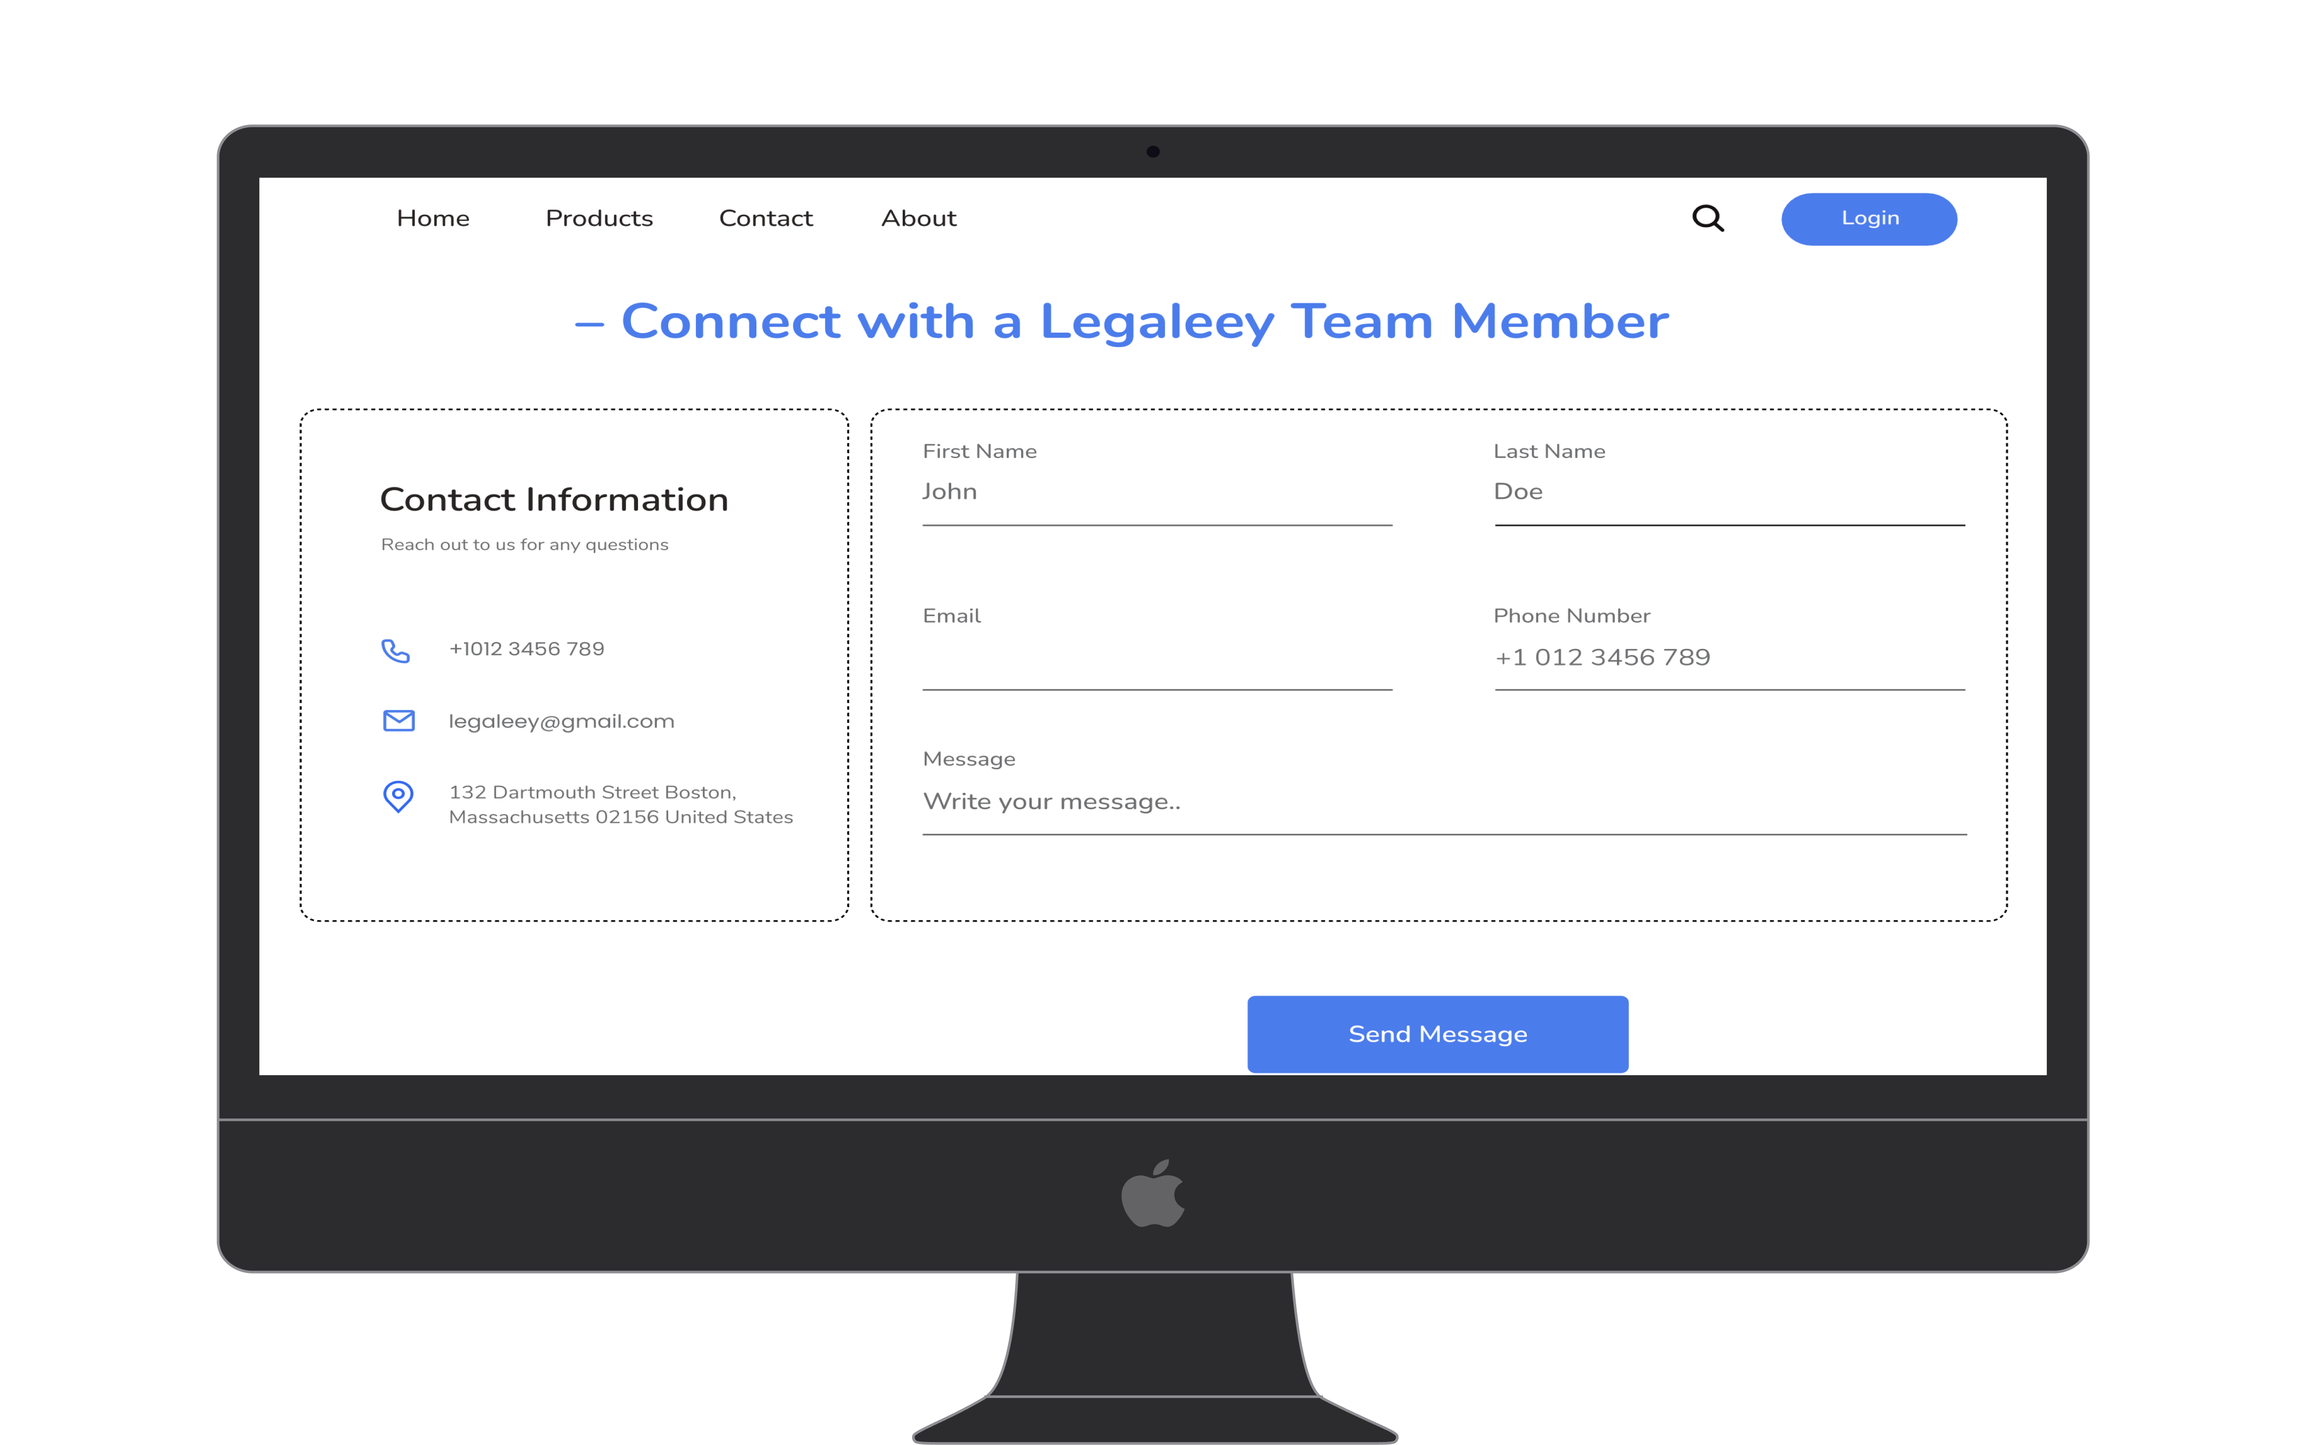
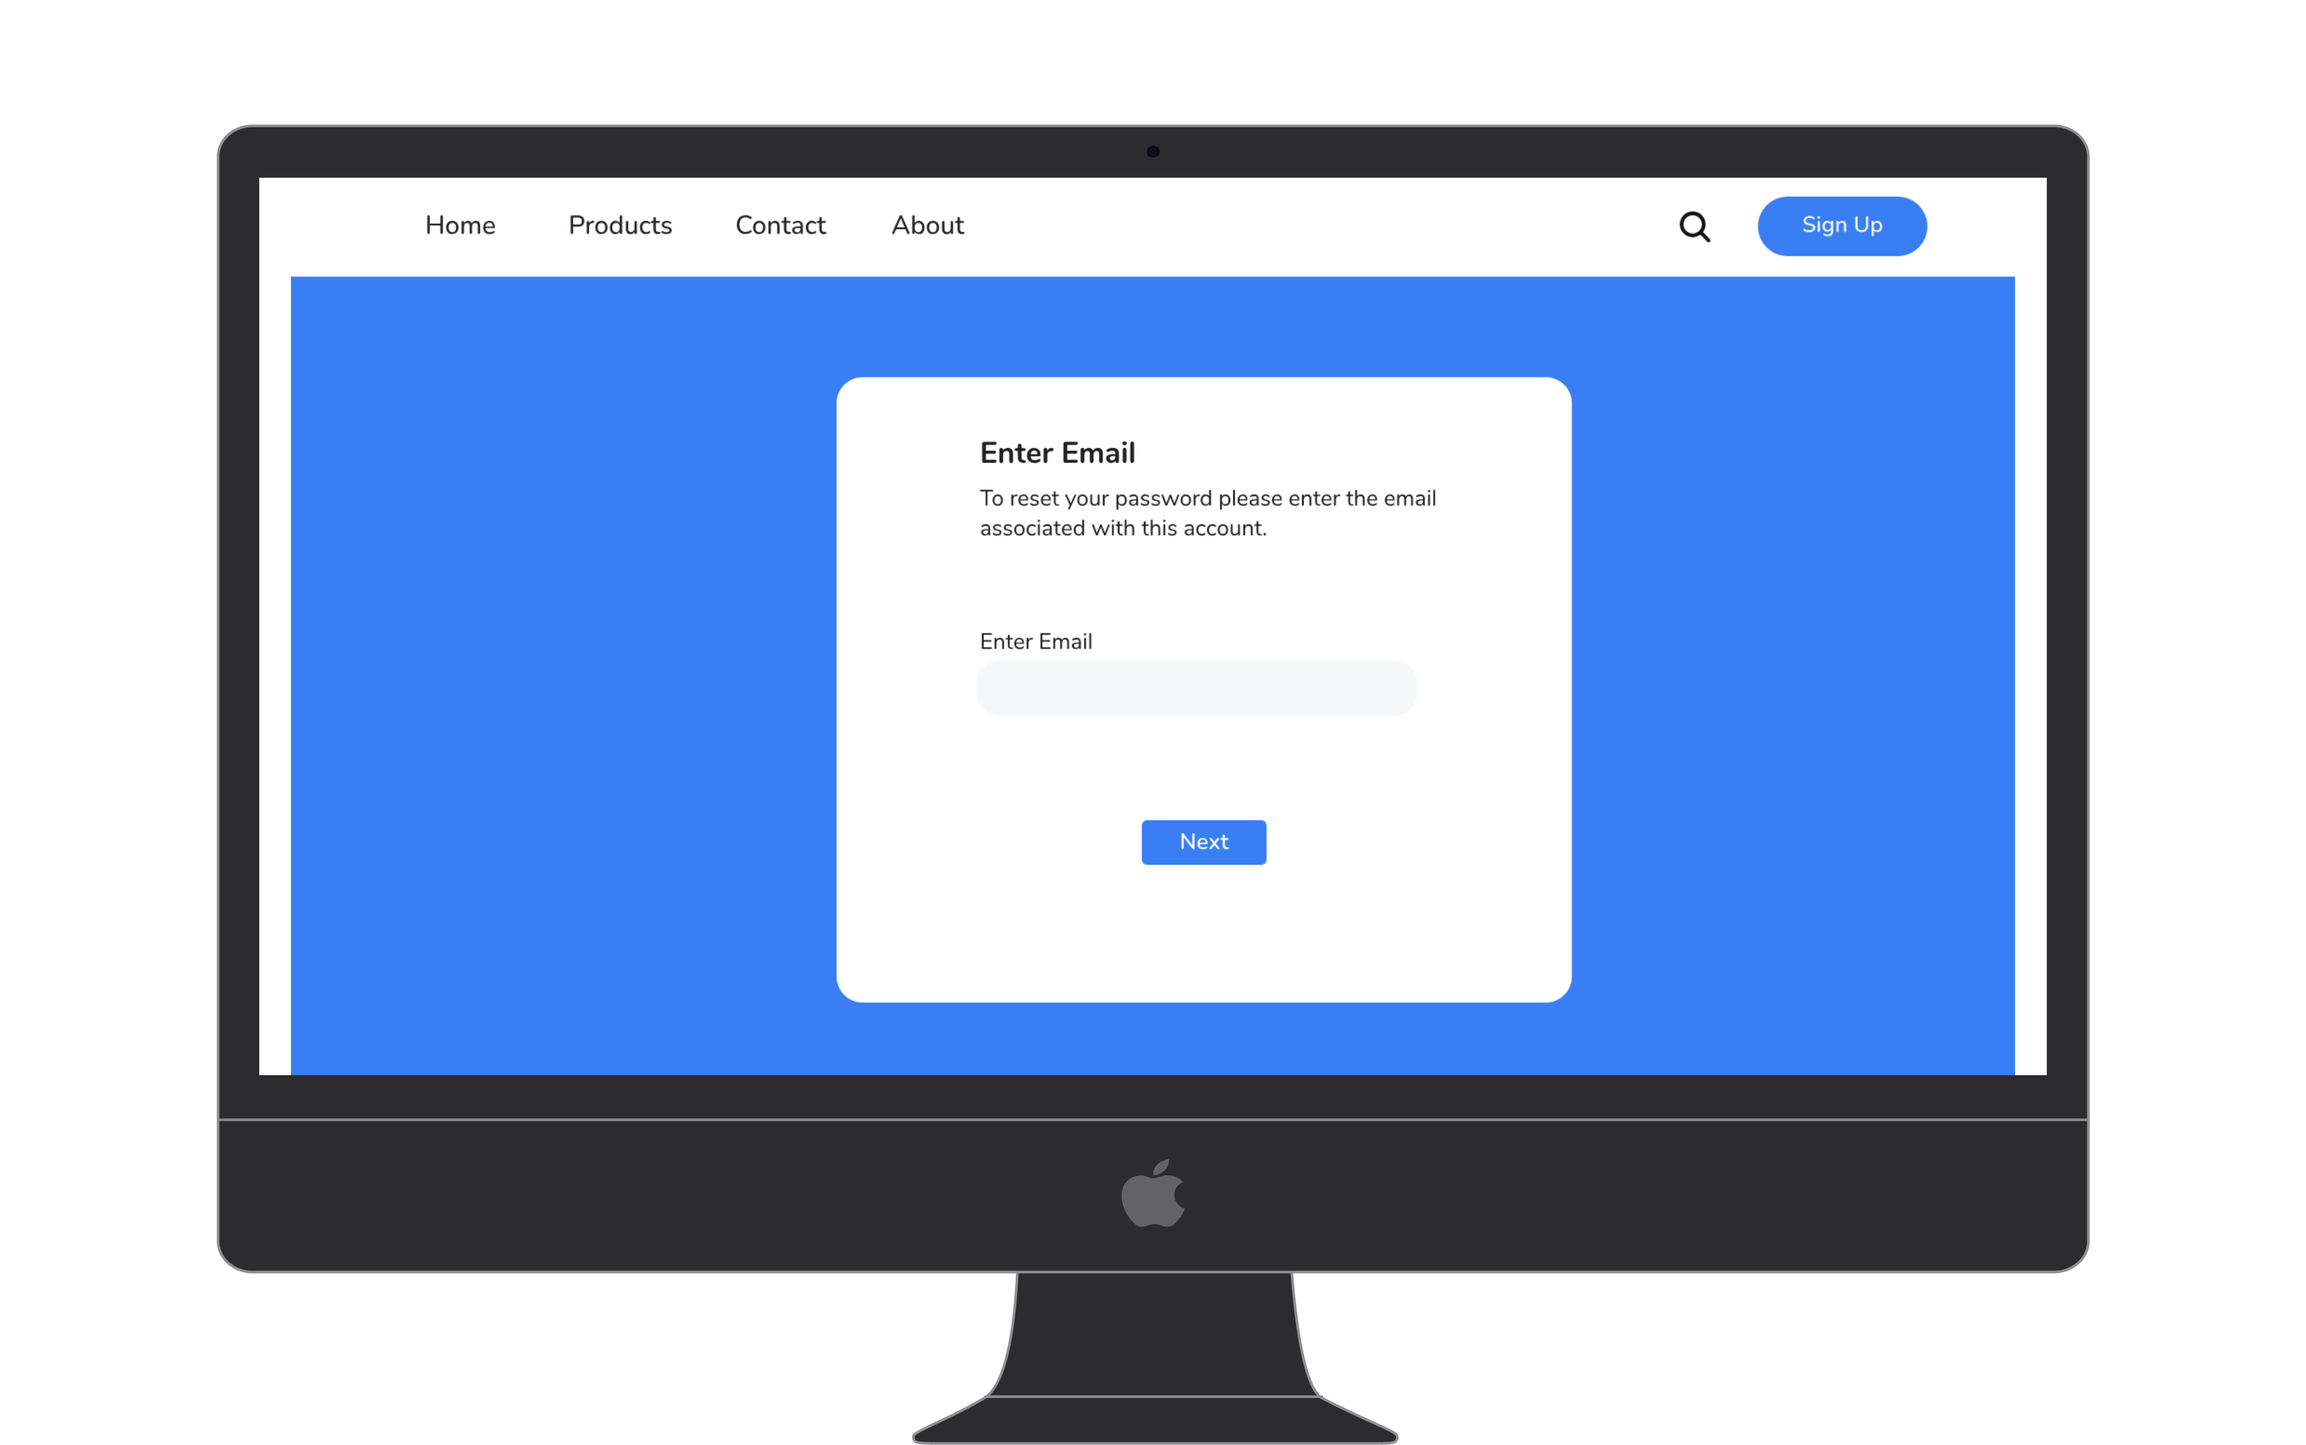
fix: Legaleey captions and alt text matched to images

diff --git a/projects/legaleey/index.html b/projects/legaleey/index.html
@@ -214,7 +214,7 @@
       <p class="hero-sub">An AI powered document search platform that reduces the hours lawyers spend finding and locating items within contracts.</p>
     </div>
 
-    <img src="/projects/legaleey/legaleey-photos/Frame%201.png" alt="Legaleey platform overview screen" style="width:100%; height:auto; display:block; border-radius:12px; margin-bottom:56px;">
+    <img src="/projects/legaleey/legaleey-photos/Frame%201.png" alt="Legaleey marketing homepage with sign up form and demo call to action" style="width:100%; height:auto; display:block; border-radius:12px; margin-bottom:56px;">
 
     <div class="ed-meta-pills">
       <span class="ed-pill">
@@ -353,11 +353,11 @@
           <p>Lawyers do not want a smarter Ctrl+F. They want a tool that understands the <strong>structure of a contract</strong> well enough to answer questions like: who are the parties, what are the termination conditions, and are there any governing law clauses that deviate from the norm?</p>
         </div>
 
-        <img src="/projects/legaleey/legaleey-photos/Frame%202.png" alt="Sign up and account creation flow" style="width:100%; height:auto; display:block; border-radius:12px; margin-bottom:56px;">
+        <img src="/projects/legaleey/legaleey-photos/Frame%202.png" alt="Who We Are section of the marketing site explaining the AI value proposition" style="width:100%; height:auto; display:block; border-radius:12px; margin-bottom:56px;">
         <p class="img-caption">The marketing site was designed to establish the AI value proposition before any account commitment was required. Lawyers evaluating new tools need to understand the core benefit before engaging with a sign up flow.</p>
-        <img src="/projects/legaleey/legaleey-photos/Frame%203.png" alt="Email verification and onboarding step" style="width:100%; height:auto; display:block; border-radius:12px; margin-bottom:56px;">
+        <img src="/projects/legaleey/legaleey-photos/Frame%203.png" alt="Contact page for connecting with a Legaleey team member" style="width:100%; height:auto; display:block; border-radius:12px; margin-bottom:56px;">
         <p class="img-caption">Direct firm outreach was prioritized because legal procurement decisions require a human touchpoint before account creation. The contact page was built into the product rather than linked externally to keep evaluation friction low.</p>
-        <img src="/projects/legaleey/legaleey-photos/Frame%204.png" alt="First time dashboard orientation" style="width:100%; height:auto; display:block; border-radius:12px; margin-bottom:56px;">
+        <img src="/projects/legaleey/legaleey-photos/Frame%204.png" alt="Login screen for existing users in a distinct visual environment" style="width:100%; height:auto; display:block; border-radius:12px; margin-bottom:56px;">
         <p class="img-caption">A separate visual environment for login signals the transition into a secure, credentialed workspace. The distinct treatment reinforces that document search happens inside a protected context, not a public-facing surface.</p>
         <img src="/projects/legaleey/legaleey-photos/Frame%205.png" alt="Returning user dashboard with recent searches" style="width:100%; height:auto; display:block; border-radius:12px; margin-bottom:56px;">
         <p class="img-caption">Returning users are dropped directly into their four most relevant task states, skipping any navigation step. The tile layout was chosen over a list view because lawyers returning mid-project need to act immediately, not orient themselves.</p>
@@ -388,9 +388,9 @@
           </div>
         </div>
 
-        <img src="/projects/legaleey/legaleey-photos/Frame%206.png" alt="AI powered search results page with structured SERP output" style="width:100%; height:auto; display:block; border-radius:12px; margin-bottom:56px;">
+        <img src="/projects/legaleey/legaleey-photos/Frame%206.png" alt="Search onboarding modal with an embedded screenshot of the SERP" style="width:100%; height:auto; display:block; border-radius:12px; margin-bottom:56px;">
         <p class="img-caption">Onboarding embeds a screenshot of the actual SERP so users arrive at search with formed expectations. Showing the real interface during orientation reduces the learning curve on first use without adding a separate tutorial step.</p>
-        <img src="/projects/legaleey/legaleey-photos/Frame%207.png" alt="Persistent filter panel always visible on the left" style="width:100%; height:auto; display:block; border-radius:12px; margin-bottom:56px;">
+        <img src="/projects/legaleey/legaleey-photos/Frame%207.png" alt="Search onboarding modal explaining that each added filter triggers a new search" style="width:100%; height:auto; display:block; border-radius:12px; margin-bottom:56px;">
         <p class="img-caption">Explaining that each added filter triggers a new search prevents users from applying all filters and waiting for a single result. This behavioral cue was added after testing revealed users were stacking filters before running any search at all.</p>
       </section>
 
@@ -466,17 +466,17 @@
           </li>
         </ul>
 
-        <img src="/projects/legaleey/legaleey-photos/Frame%208.png" alt="Document upload drag and drop screen" style="width:100%; height:auto; display:block; border-radius:12px; margin-bottom:56px;">
-        <p class="img-caption">Embedded guidance was chosen over external documentation to keep lawyers in context during their first searches. Leaving the product to read a help article breaks the flow at the moment users are most likely to abandon.</p>
-        <img src="/projects/legaleey/legaleey-photos/Frame%209.png" alt="Upload progress sidebar with file processing states" style="width:100%; height:auto; display:block; border-radius:12px; margin-bottom:56px;">
+        <img src="/projects/legaleey/legaleey-photos/Frame%208.png" alt="Upload notification prompt embedded in the upload flow" style="width:100%; height:auto; display:block; border-radius:12px; margin-bottom:56px;">
+        <p class="img-caption">Embedded guidance was chosen over external documentation to keep lawyers in context during their first sessions. Leaving the product to read a help article breaks the flow at the moment users are most likely to abandon.</p>
+        <img src="/projects/legaleey/legaleey-photos/Frame%209.png" alt="Upload screen with circular drag and drop zone and Add files button" style="width:100%; height:auto; display:block; border-radius:12px; margin-bottom:56px;">
         <p class="img-caption">The circular focal point was chosen over a rectangular zone to reduce upload hesitation in testing. A single centered target creates a clear call to action without requiring any instructional copy.</p>
-        <img src="/projects/legaleey/legaleey-photos/Frame%2010.png" alt="Document management table view" style="width:100%; height:auto; display:block; border-radius:12px; margin-bottom:56px;">
+        <img src="/projects/legaleey/legaleey-photos/Frame%2010.png" alt="Upload screen with the first iteration rectangular drop zone" style="width:100%; height:auto; display:block; border-radius:12px; margin-bottom:56px;">
         <p class="img-caption">The rectangular drop zone was the first iteration, replaced after the circular form performed better in testing. Side by side testing showed the circular variant reduced time to first upload by a measurable margin.</p>
-        <img src="/projects/legaleey/legaleey-photos/Frame%2011.png" alt="Search and SERP with persistent filter panel" style="width:100%; height:auto; display:block; border-radius:12px; margin-bottom:56px;">
-        <p class="img-caption">Contact access was designed into the product itself so firms could raise procurement questions without leaving the platform. Keeping evaluation and usage in the same environment lowers the barrier to first purchase.</p>
-        <img src="/projects/legaleey/legaleey-photos/Frame%2012.png" alt="Search options modal with toggles" style="width:100%; height:auto; display:block; border-radius:12px; margin-bottom:56px;">
+        <img src="/projects/legaleey/legaleey-photos/Frame%2011.png" alt="Email verification screen for account setup" style="width:100%; height:auto; display:block; border-radius:12px; margin-bottom:56px;">
+        <p class="img-caption">Email verification anchors each new account to a firm address before any documents are uploaded. A single step check keeps setup fast while protecting the credentialed workspace that will hold client files.</p>
+        <img src="/projects/legaleey/legaleey-photos/Frame%2012.png" alt="New user welcome screen with four orientation tiles" style="width:100%; height:auto; display:block; border-radius:12px; margin-bottom:56px;">
         <p class="img-caption">New user orientation was delivered as tiles rather than a walkthrough to lower cognitive load at entry. Walkthroughs require sequential completion and block action, while tiles let users choose their own starting point.</p>
-        <img src="/projects/legaleey/legaleey-photos/Frame%2013.png" alt="Boolean search help modal with operator reference" style="width:100%; height:auto; display:block; border-radius:12px; margin-bottom:56px;">
+        <img src="/projects/legaleey/legaleey-photos/Frame%2013.png" alt="Upload tutorial modal with an embedded live screenshot of the upload interface" style="width:100%; height:auto; display:block; border-radius:12px; margin-bottom:56px;">
         <p class="img-caption">The upload tutorial embedded a live screenshot so new users could preview the interface before interacting with it. Previewing the outcome before committing to an action is a consistent pattern across all onboarding flows in the product.</p>
       </section>
 
@@ -518,15 +518,15 @@
           <p>The hardest balance in this product was between <strong>simplicity for new users</strong> and <strong>power for experts</strong>. The solution was progressive disclosure: simple by default, with advanced options always one step away but never in the way.</p>
         </div>
 
-        <img src="/projects/legaleey/legaleey-photos/Frame%2014.png" alt="Search options modal with case sensitivity and word order toggles" style="width:100%; height:auto; display:block; border-radius:12px; margin-bottom:56px;">
+        <img src="/projects/legaleey/legaleey-photos/Frame%2014.png" alt="File sorting tutorial showing the Download, Make a copy, and Delete actions" style="width:100%; height:auto; display:block; border-radius:12px; margin-bottom:56px;">
         <p class="img-caption">File management actions were shown in context within onboarding rather than discovered through trial and error. Surfacing the Download and Delete options early reduces support requests from users who cannot find core file actions.</p>
-        <img src="/projects/legaleey/legaleey-photos/Frame%2015.png" alt="Boolean search help showing AND OR EXCLUDE and Exact Phrase operators" style="width:100%; height:auto; display:block; border-radius:12px; margin-bottom:56px;">
+        <img src="/projects/legaleey/legaleey-photos/Frame%2015.png" alt="Upload progress with per file status and unsupported format errors" style="width:100%; height:auto; display:block; border-radius:12px; margin-bottom:56px;">
         <p class="img-caption">Upload status was tracked per file so lawyers could identify unsupported formats before committing to search. Per file feedback was added after testing showed users had no way to diagnose why certain documents were not appearing in results.</p>
-        <img src="/projects/legaleey/legaleey-photos/Frame%2016.png" alt="Settings account panel" style="width:100%; height:auto; display:block; border-radius:12px; margin-bottom:56px;">
+        <img src="/projects/legaleey/legaleey-photos/Frame%2016.png" alt="Document management table view with file actions menu" style="width:100%; height:auto; display:block; border-radius:12px; margin-bottom:56px;">
         <p class="img-caption">A table layout for document management mirrors the file paradigm lawyers already use in their daily workflows. Familiar patterns reduce the learning curve and increase the likelihood that new users complete their first upload without assistance.</p>
-        <img src="/projects/legaleey/legaleey-photos/Frame%2017.png" alt="Notifications settings with email and phone toggles" style="width:100%; height:auto; display:block; border-radius:12px; margin-bottom:56px;">
+        <img src="/projects/legaleey/legaleey-photos/Frame%2017.png" alt="Search results with the persistent filter panel for party, people, and county" style="width:100%; height:auto; display:block; border-radius:12px; margin-bottom:56px;">
         <p class="img-caption">Filters for party name, people, and county map directly to how legal professionals think about clause retrieval. These categories were derived from user interviews and reflect the actual mental model lawyers use when searching across contracts.</p>
-        <img src="/projects/legaleey/legaleey-photos/Frame%2018.png" alt="Billing and privacy policy settings panel" style="width:100%; height:auto; display:block; border-radius:12px; margin-bottom:56px;">
+        <img src="/projects/legaleey/legaleey-photos/Frame%2018.png" alt="Search results with date range and percentage slider filters" style="width:100%; height:auto; display:block; border-radius:12px; margin-bottom:56px;">
         <p class="img-caption">Date range and percentage filters address the most common clauses lawyers need to surface across contract portfolios. Adding sliders rather than text inputs for these fields reduced input errors and sped up filter application in testing.</p>
       </section>
 
@@ -555,7 +555,7 @@
           </div>
         </div>
 
-        <img src="/projects/legaleey/legaleey-photos/Frame%2019.png" alt="Legaleey platform final screen" style="width:100%; height:auto; display:block; border-radius:12px; margin-bottom:56px;">
+        <img src="/projects/legaleey/legaleey-photos/Frame%2019.png" alt="Upload error modal with specific cause and View File and Retry recovery actions" style="width:100%; height:auto; display:block; border-radius:12px; margin-bottom:56px;">
         <p class="img-caption">Error messages surface the specific cause and provide a recovery action rather than generic failure copy. Lawyers under time pressure need to know immediately whether an error is recoverable and what to do next.</p>
 
         <h4>Future Directions</h4>
